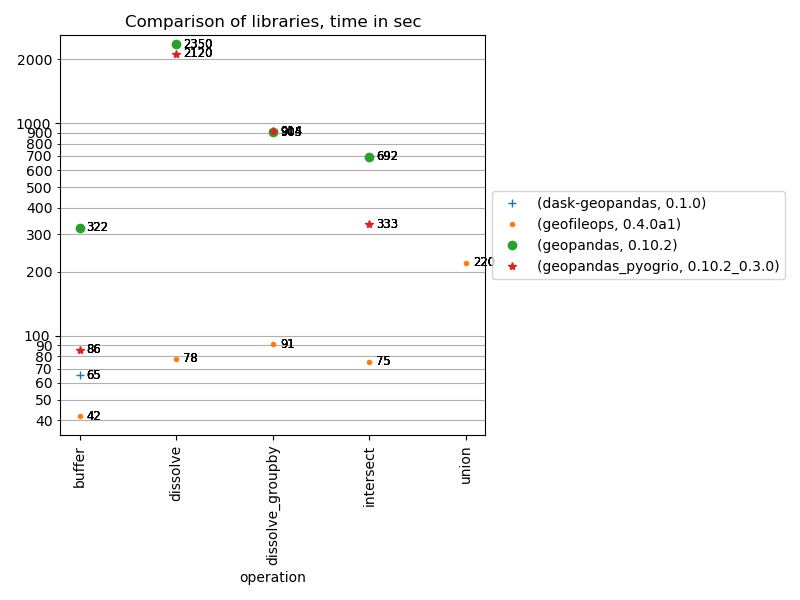
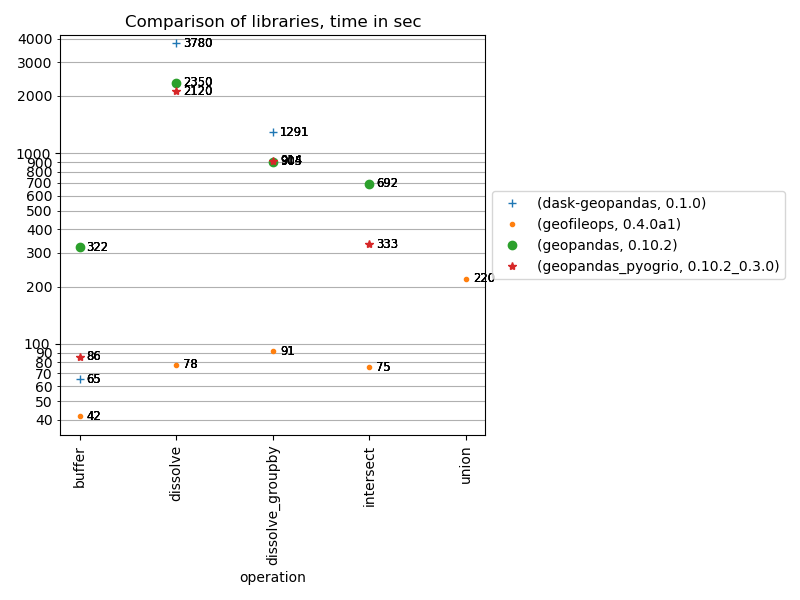
Add dissolve benchmarks to dask_geopandas

Changed region(s): [[0.0312, 0.15, 0.625, 0.51], [0.0312, 0.54, 0.5938, 0.72], [0.0, 0.06, 0.5938, 0.18]]

diff --git a/benchmarks/benchmarks_dask_geopandas.py b/benchmarks/benchmarks_dask_geopandas.py
@@ -43,10 +43,10 @@ def buffer(tmp_dir: Path) -> RunResult:
     logger.info(f"time for read: {(datetime.now()-start_time).total_seconds()}")
     
     # Buffer
-    dask_gdf = dgpd.from_geopandas(gdf, npartitions=multiprocessing.cpu_count())
     start_time_buffer = datetime.now()
-    dask_gdf["geometry"] = dask_gdf["geometry"].buffer(distance=1, resolution=5).compute()
-    assert isinstance(dask_gdf, dgpd.GeoDataFrame)
+    dgdf = dgpd.from_geopandas(gdf, npartitions=multiprocessing.cpu_count())
+    dgdf["geometry"] = dgdf["geometry"].buffer(distance=1, resolution=5).compute()
+    assert isinstance(dgdf, dgpd.GeoDataFrame)
     logger.info(f"time for buffer: {(datetime.now()-start_time_buffer).total_seconds()}")
     
     # Write to output file
@@ -58,11 +58,12 @@ def buffer(tmp_dir: Path) -> RunResult:
     #dask_gdf.to_parquet(output_path) 
 
     # Convert to normal GeoDataFrame
-    result_gdf = dask_gdf.compute()
+    result_gdf = dgdf.compute()
     # Harmonize, otherwise invalid gpkg because mixed poly and multipoly
+    # Remark: the harmonization would ideally also be done in parallel
     result_gdf.geometry = geoseries_util.harmonize_geometrytypes(result_gdf.geometry)
     
-    output_path = tmp_dir / f"{input_path.stem}_geopandas_buf.gpkg"
+    output_path = tmp_dir / f"{input_path.stem}_{_get_package()}_buf.gpkg"
     pyogrio.write_dataframe(result_gdf, output_path, layer=output_path.stem, driver="GPKG")
     logger.info(f"write took {(datetime.now()-start_time_write).total_seconds()}")    
     result = RunResult(
@@ -79,7 +80,6 @@ def buffer(tmp_dir: Path) -> RunResult:
 
     return result
 
-"""
 def dissolve(tmp_dir: Path) -> RunResult:
     
     ### Init ###
@@ -88,28 +88,36 @@ def dissolve(tmp_dir: Path) -> RunResult:
     ### Go! ###
     # Read input file
     start_time = datetime.now()
-    gdf = gpd.read_file(input_path)
+    gdf = pyogrio.read_dataframe(input_path)
     logger.info(f"time for read: {(datetime.now()-start_time).total_seconds()}")
     
     # dissolve
     start_time_dissolve = datetime.now()
-    gdf = gdf.dissolve()
+    dgdf = dgpd.from_geopandas(gdf, npartitions=multiprocessing.cpu_count())
+    dgdf = dgdf.dissolve(split_out=multiprocessing.cpu_count())   # type: ignore
+    dgdf = dgdf.explode()
+    result_gdf = dgdf.compute()
     logger.info(f"time for dissolve: {(datetime.now()-start_time_dissolve).total_seconds()}")
     
     # Write to output file
     start_time_write = datetime.now()
-    output_path = tmp_dir / f"{input_path.stem}_geopandas_diss.gpkg"
-    gdf.to_file(output_path, layer=output_path.stem, driver="GPKG")
-    logger.info(f"write took {(datetime.now()-start_time_write).total_seconds()}")
+    
+    # Harmonize, otherwise invalid gpkg because mixed poly and multipoly
+    # Remark: the harmonization would ideally also be done in parallel
+    result_gdf.geometry = geoseries_util.harmonize_geometrytypes(result_gdf.geometry)
+    
+    output_path = tmp_dir / f"{input_path.stem}_{_get_package()}_diss.gpkg"
+    pyogrio.write_dataframe(result_gdf, output_path, layer=output_path.stem, driver="GPKG")
+    logger.info(f"write took {(datetime.now()-start_time_write).total_seconds()}") 
     result = RunResult(
-            package=get_package(), 
-            package_version=get_version(),
+            package=_get_package(), 
+            package_version=_get_version(),
             operation="dissolve", 
             secs_taken=(datetime.now()-start_time).total_seconds(),
             operation_descr="dissolve agri parcels BEFL (~500.000 polygons)")
     
     # Cleanup and return
-    output_path.unlink()
+    #output_path.unlink()
     return result
 
 def dissolve_groupby(tmp_dir: Path) -> RunResult:
@@ -120,30 +128,45 @@ def dissolve_groupby(tmp_dir: Path) -> RunResult:
     ### Go! ###
     # Read input file
     start_time = datetime.now()
-    gdf = gpd.read_file(input_path)
+    gdf = pyogrio.read_dataframe(input_path)
     logger.info(f"time for read: {(datetime.now()-start_time).total_seconds()}")
     
     # dissolve
     start_time_dissolve = datetime.now()
-    gdf = gdf.dissolve(by="GEWASGROEP")
+    dgdf = dgpd.from_geopandas(gdf, npartitions=multiprocessing.cpu_count())
+    dgdf = dgdf.dissolve(by="GEWASGROEP", split_out=multiprocessing.cpu_count())  # type: ignore
+    dgdf = dgdf.explode()
+    result_gdf = dgdf.compute()
     logger.info(f"time for dissolve: {(datetime.now()-start_time_dissolve).total_seconds()}")
     
     # Write to output file
     start_time_write = datetime.now()
-    output_path = tmp_dir / f"{input_path.stem}_geopandas_diss_groupby.gpkg"
-    gdf.to_file(output_path, layer=output_path.stem, driver="GPKG")
-    logger.info(f"write took {(datetime.now()-start_time_write).total_seconds()}")
+    
+    # Remark: write to parquet is significantly faster (~4x), but isn't really 
+    # a typical geo file + actually is 1 file per partition in a directory...?
+    #output_path = tmp_dir / f"{input_path.stem}_geopandas_buf.parquet"
+    #dask_gdf.to_parquet(output_path) 
+
+    # Harmonize, otherwise invalid gpkg because mixed poly and multipoly
+    # Remark: the harmonization would ideally also be done in parallel
+    result_gdf.geometry = geoseries_util.harmonize_geometrytypes(result_gdf.geometry)
+    
+    output_path = tmp_dir / f"{input_path.stem}_{_get_package()}_diss_groupby.gpkg"
+    pyogrio.write_dataframe(result_gdf, output_path, layer=output_path.stem, driver="GPKG")
+    logger.info(f"write took {(datetime.now()-start_time_write).total_seconds()}") 
+    
     result = RunResult(
-            package=get_package(), 
-            package_version=get_version(),
+            package=_get_package(), 
+            package_version=_get_version(),
             operation="dissolve_groupby", 
             secs_taken=(datetime.now()-start_time).total_seconds(),
             operation_descr="dissolve on agri parcels BEFL (~500.000 polygons), groupby=GEWASGROEPs")
     
     # Cleanup and return
-    output_path.unlink()
+    #output_path.unlink()
     return result
 
+"""
 def intersect(tmp_dir: Path) -> RunResult:
     
     ### Init ###
@@ -152,24 +175,27 @@ def intersect(tmp_dir: Path) -> RunResult:
     ### Go! ###
     # Read input files
     start_time = datetime.now()
-    input1_gdf = gpd.read_file(input1_path)
-    input2_gdf = gpd.read_file(input2_path)
+    input1_gdf = pyogrio.read_dataframe(input1_path)
+    input2_gdf = pyogrio.read_dataframe(input2_path)
     logger.info(f"time for read: {(datetime.now()-start_time).total_seconds()}")
     
     # intersect
     start_time_intersect = datetime.now()
-    output_gdf = input1_gdf.overlay(input2_gdf, how="intersection")
+    input1_dgdf = dgpd.from_geopandas(input1_gdf, npartitions=multiprocessing.cpu_count())
+    result_gdf = input1_dgdf.overlay(input2_gdf, how="intersection")
     logger.info(f"time for intersect: {(datetime.now()-start_time_intersect).total_seconds()}")
 
     # Write to output file
     start_time_write = datetime.now()
-    output_path = tmp_dir / f"{input1_path.stem}_inters_{input2_path.stem}.gpkg"
-    output_gdf.to_file(output_path, layer=output_path.stem, driver="GPKG")
+    # Harmonize, otherwise invalid gpkg because mixed poly and multipoly
+    result_gdf.geometry = geoseries_util.harmonize_geometrytypes(result_gdf.geometry)
+    output_path = tmp_dir / f"{input1_path.stem}_inters_{input2_path.stem}_{_get_package()}.gpkg"
+    pyogrio.write_dataframe(result_gdf, output_path, layer=output_path.stem, driver="GPKG")
     logger.info(f"write took {(datetime.now()-start_time_write).total_seconds()}")
     secs_taken = (datetime.now()-start_time).total_seconds()
     result = RunResult(
-            package=get_package(), 
-            package_version=get_version(),
+            package=_get_package(), 
+            package_version=_get_version(),
             operation='intersect', 
             secs_taken=secs_taken,
             operation_descr="intersect between 2 agri parcel layers BEFL (2*~500.000 polygons)")

diff --git a/benchmark_dask_geopandas.py b/benchmark_dask_geopandas.py
@@ -5,4 +5,4 @@ if __name__ == "__main__":
     benchmarker.run_benchmarks(["benchmarks_dask_geopandas"])
 
     # Only run specific benchmark function(s)
-    #benchmarker.run_benchmarks(["benchmarks_dask_geopandas"], ["buffer"])
+    #benchmarker.run_benchmarks(["benchmarks_dask_geopandas"], ["dissolve"])
